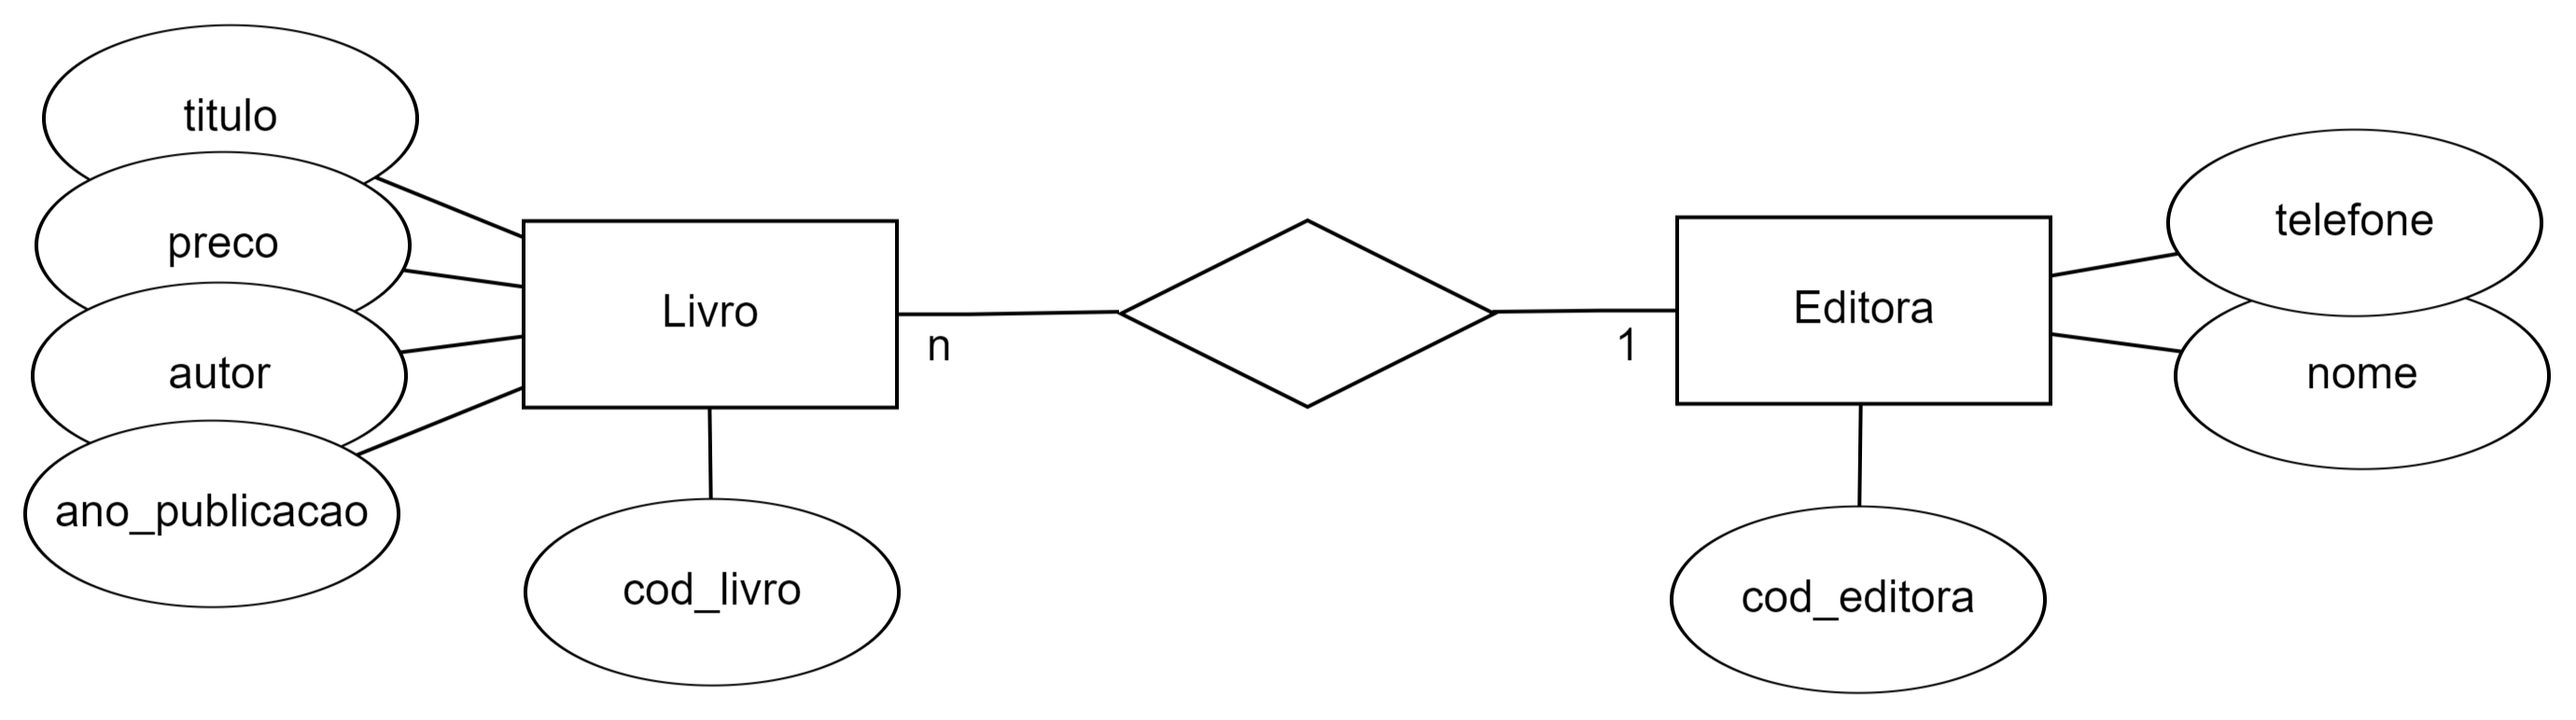
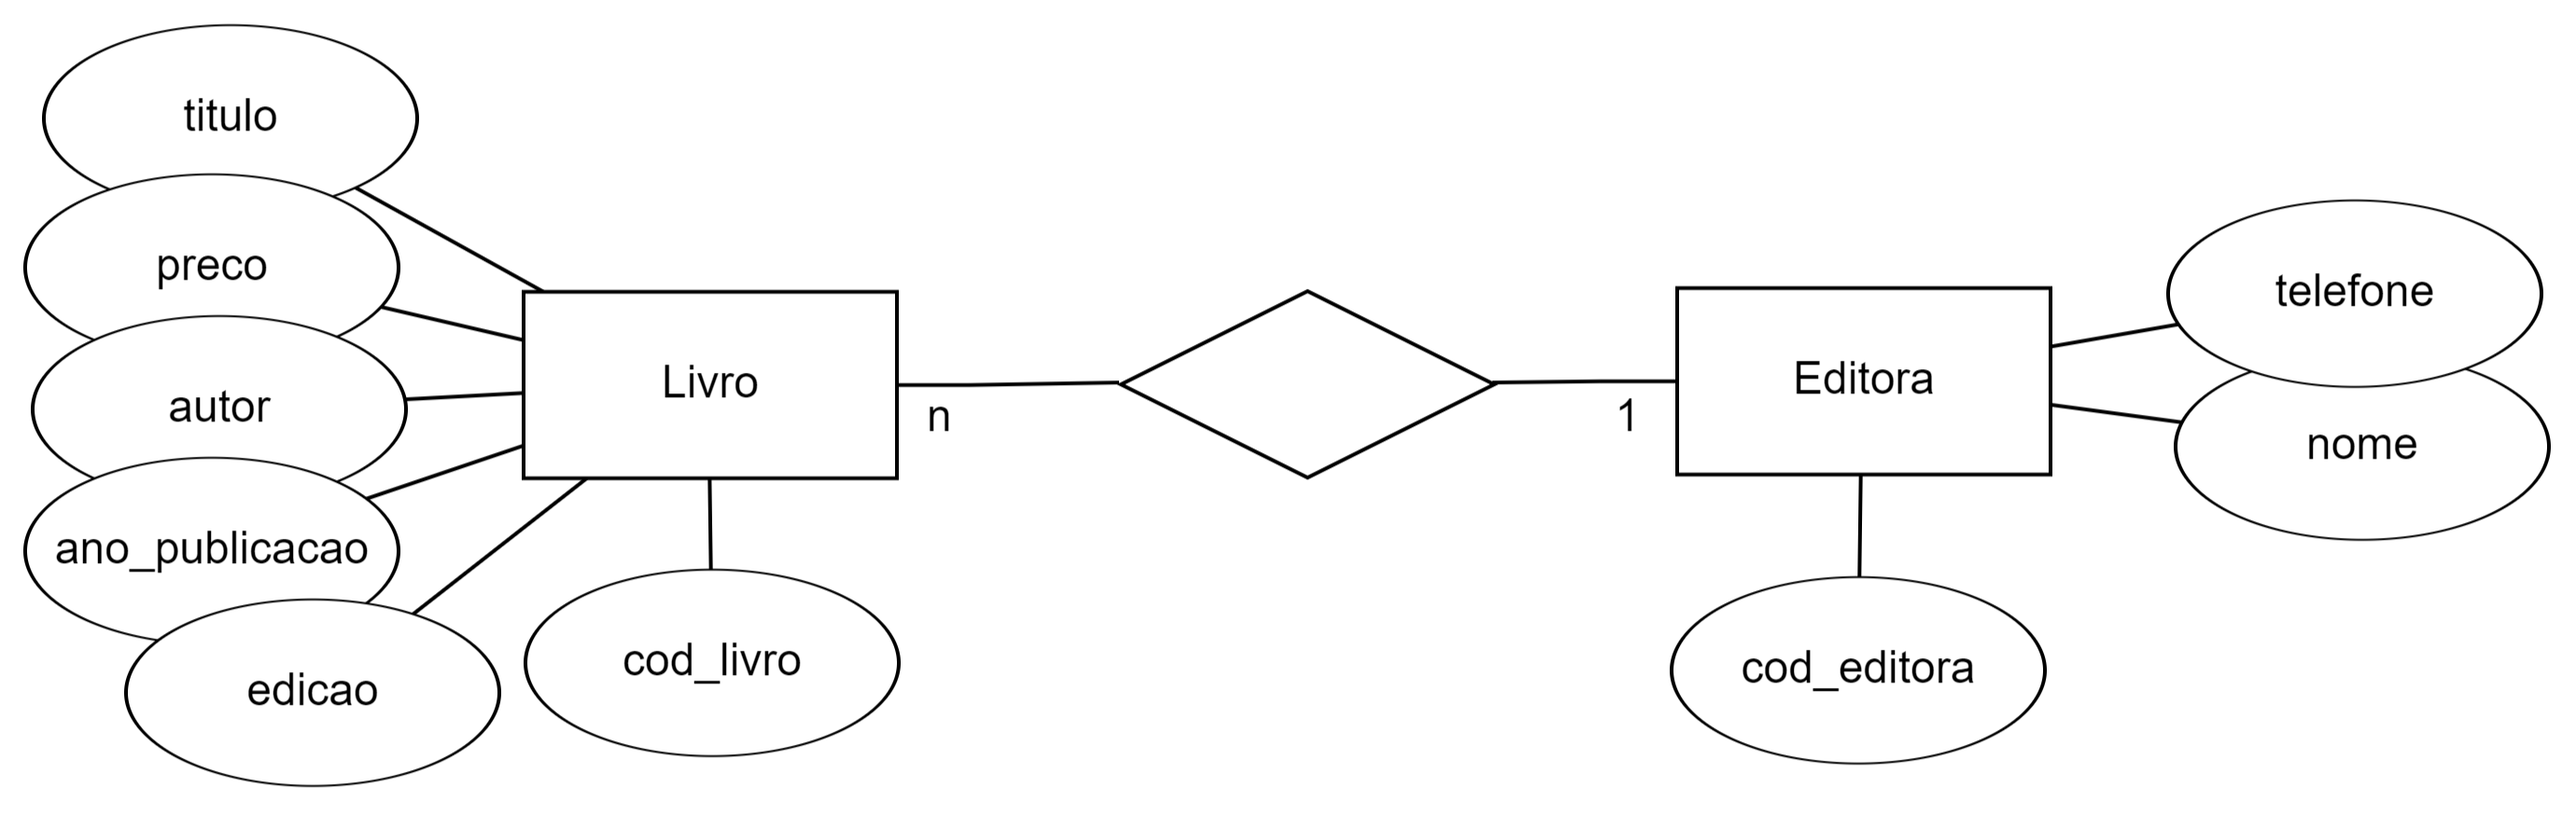
ajustes nos modelos

diff --git a/01 - Projeto de Banco de Dados/README.md b/01 - Projeto de Banco de Dados/README.md
@@ -20,8 +20,6 @@ A técnica mais amplamente utilizada para modelagem conceitual é a abordagem En
     <p>Figura 1.3: Exemplo de modelo conceitual.</p>
 </div>
 
-Esse modelo demonstra que o banco de dados contém informações sobre livros e editoras. Para cada livro, são armazenados dados como código, título, preço, autor, ano de publicação e a editora associada. Para cada editora, o banco de dados registra o código, nome, telefone e os livros vinculados a ela.
-
 ## 1.2. Modelo Lógico
 
 O modelo lógico de um banco de dados descreve a estrutura e as relações entre os dados em um nível de abstração, focando na organização das entidades e suas interações dentro de um Sistema de Gerenciamento de Banco de Dados (SGBD). Ele é dependente do tipo de SGBD utilizado, como o relacional, no qual os dados são organizados em tabelas. Embora seja uma representação abstrata, o modelo lógico define quais tabelas compõem o banco de dados e, para cada uma, especifica os nomes das colunas e suas respectivas características. A Figura 1.4 ilustra um exemplo de banco de dados relacional projetado a partir do modelo conceitual apresentado na Figura 1.3.
@@ -30,6 +28,8 @@ O modelo lógico de um banco de dados descreve a estrutura e as relações entre
     <img src="../imgs/ex_modelo_logico.png" width="50%"/>
     <p>Figura 1.4: Exemplo de modelo lógico.</p>
 </div>
+
+Esse modelo demonstra que o banco de dados contém informações sobre livros e editoras. Para cada livro, são armazenados dados como código, título, preço, autor, ano de publicação, edição e a editora associada. Para cada editora, o banco de dados registra o código, nome, telefone e os livros vinculados a ela.
 
 ## 1.3. Modelo Físico
 
@@ -47,9 +47,10 @@ CREATE TABLE editora (
 CREATE TABLE livro (
     cod_livro SERIAL PRIMARY KEY,
     titulo VARCHAR(50) NOT NULL,
-    autor VARCHAR(50),
     preco DECIMAL(10, 2) NOT NULL,
+    autor VARCHAR(50) NOT NULL,
     ano_publicacao DATE,
+    edicao INTERGER,
     cod_editora INTEGER,
     FOREIGN KEY (cod_editora) REFERENCES editora(cod_editora)
 );
